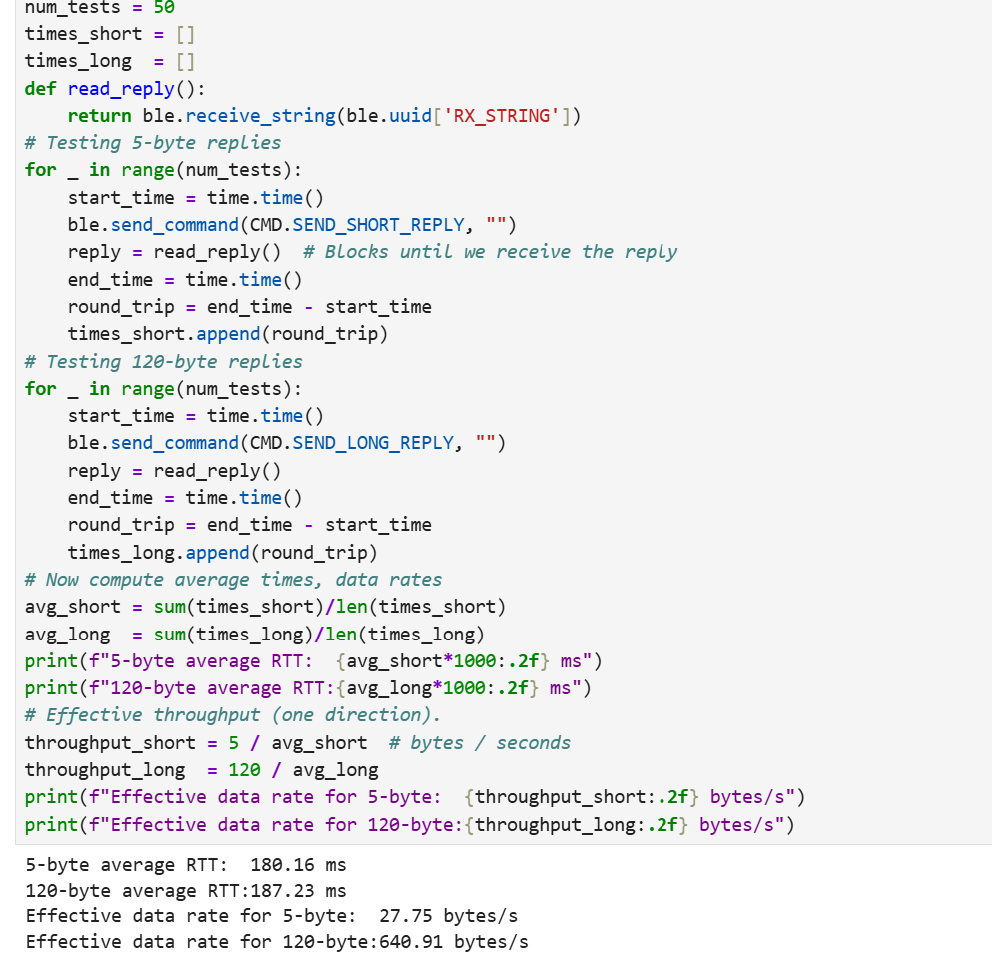
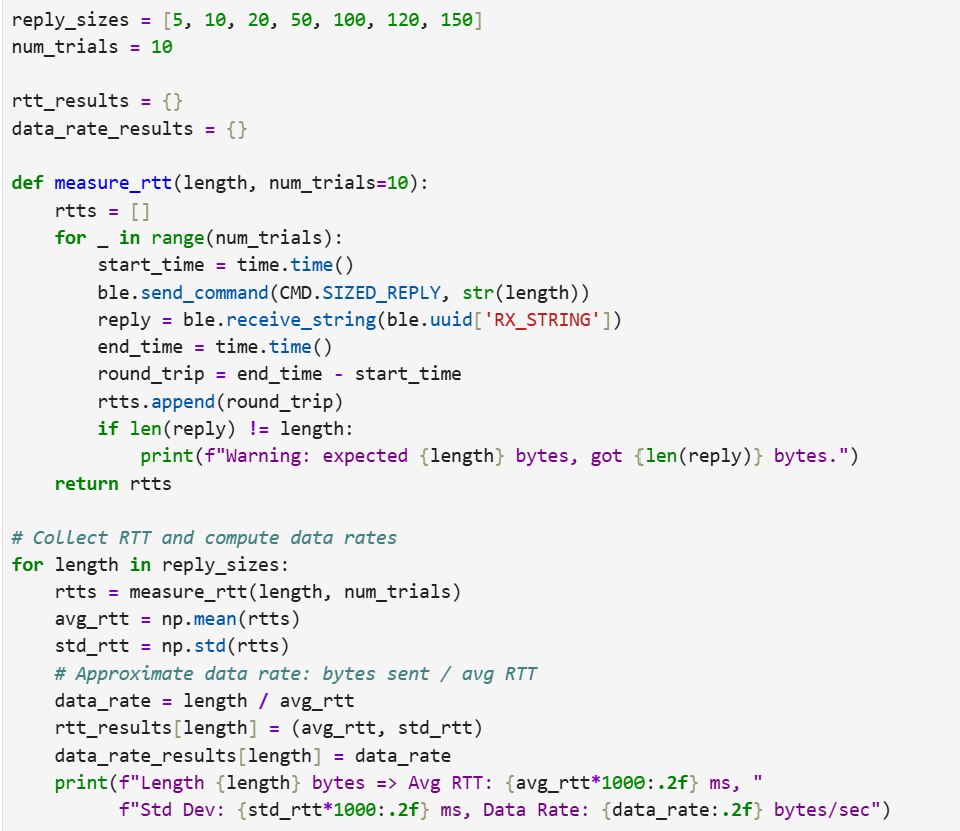
Lab 1 Report updated

diff --git a/index.html b/index.html
@@ -377,9 +377,8 @@
                         <!-- Sub-section 1: ECHO Command -->
                         <h4 class="text-center">1. ECHO Command</h4>
                         <p class="text-justify">
-                        In this code snippet, the Artemis board handles the <code>ECHO</code> command by extracting a string from the incoming BLE message.
+                        The Artemis board handles the <code>ECHO</code> command by extracting a string from the incoming BLE message.
                         It then constructs a new string, adding the prefix <em>"Robot says -> "</em> and the postfix <em>" :)"</em> before transmitting it back.
-                        Sending <em>"HiHello"</em> yields <em>"Robot says -> HiHello :)"</em>, confirming that read and write operations function correctly over BLE.
                         Observing <code>Serial.println(tx_estring_value.c_str())</code> verifies the command’s execution.
                         </p>
                         <img class="img-fluid rounded mb-2"
@@ -398,7 +397,7 @@
                         The <code>SEND_THREE_FLOATS</code> command parses three float values sent from Python in a single message.
                         After successfully extracting the values, it responds with a formatted string <em>"Received: x, y, z"</em>.
                         On the Python side, sending <em>"1|2|3"</em> yields <em>"Received: 1.000, 2.000, 3.000"</em>, demonstrating
-                        multi-field data handling. Debug messages in the serial monitor confirm correct float reception.
+                        multi-field data handling. 
                         </p>
                         <img class="img-fluid rounded mb-2"
                             style="max-width: 600px; height: auto;"
@@ -411,12 +410,10 @@
                         <div class="empty-line"></div>
                         
                         <!-- Sub-section 3: GET_TIME_MILLIS & Notification -->
-                        <h4 class="text-center">3. GET_TIME_MILLIS Notification Handler</h4>
+                        <h4 class="text-center">3. GET_TIME_MILLIS</h4>
                         <p class="text-justify">
                         For <code>GET_TIME_MILLIS</code>, the Arduino code appends <em>"T:"</em> plus <code>millis()</code> to the BLE characteristic.
-                        Python sends an empty command and reads back the timestamp (e.g., <em>"T:123456"</em>). Subscribing to notifications
-                        (<code>ble.start_notify</code>) automatically invokes a handler whenever the characteristic updates. This real-time,
-                        event-based approach is more efficient than polling, enabling continuous monitoring of incoming data.
+                        Python sends an empty command and reads back the timestamp (e.g., <em>"T:123456"</em>). 
                         </p>
                         <img class="img-fluid rounded mb-2"
                             style="max-width: 600px; height: auto;"
@@ -442,7 +439,7 @@
                         <div class="empty-line"></div>
 
                         <!-- Sub-section 5: GET_TIME_STREAM -->
-                        <h4 class="text-center">5. Time Streaming (GET_TIME_STREAM)</h4>
+                        <h4 class="text-center">5. Time Streaming</h4>
                         <p class="text-justify">
                         The <code>GET_TIME_STREAM</code> command continuously sends timestamp data (<em>"T:millis"</em>) from the Artemis over five seconds,
                         pausing briefly to avoid overwhelming BLE. On the Python side, a notification handler records each packet with its arrival time.
@@ -464,7 +461,7 @@
                         <div class="empty-line"></div>
                         
                         <!-- Sub-section 6: STORE_TIME_DATA & SEND_TIME_DATA -->
-                        <h4 class="text-center">6. Storing Timestamps (STORE_TIME_DATA & SEND_TIME_DATA)</h4>
+                        <h4 class="text-center">6. Storing Timestamps</h4>
                         <p class="text-justify">
                         First I predefined a global array with size 100 for time data. Then, similary to <code>5. SEND_TIME_DATA </code>, but instead of immediately sending timestamps, the Artemis uses <code>STORE_TIME_DATA</code> to log data in a global array for five seconds.
                         After the collection period, <code>SEND_TIME_DATA</code> transmits the entire dataset. 
@@ -490,7 +487,7 @@
                         <div class="empty-line"></div>
                         
                         <!-- Sub-section 7: STORE_TEMP_DATA & GET_TEMP_READINGS -->
-                        <h4 class="text-center">7. Storing Temperature and Time (STORE_TEMP_DATA & GET_TEMP_READINGS)</h4>
+                        <h4 class="text-center">7. Storing Temperature and Time</h4>
                         <p class="text-justify">
                         The code adds a second array for temperature readings alongside timestamps, capturing both data types together for five seconds. And similarly, I predefined two global arrays for time and temperature data with both size 100.
                         Then using <code>STORE_TEMP_DATA</code> to log data in both arrays for five seconds. If overfill happens, the code will stop storing data and break the loop.
@@ -518,22 +515,21 @@
                         </p>
 
                         <p class="text-justify">
-                            Thanks to the Artemis board’s 384 kB of RAM, which is 393216 bytes (384*1024), it can store tens of thousands of samples (e.g. 8-bit chars, 16-bit chars, 32 bit floats, 64 bits doubles). Consequently, buffering suits scenarios needing higher sampling rates without real-time requirements, while streaming is better for quick diagnostics and interactive tasks.
+                            Thanks to the Artemis board’s 384 kB of RAM, which is 393216 bytes (384*1024), it can store tens of thousands of messages (e.g. 8-bit chars, 16-bit chars, 32 bit floats, 64 bits doubles). Consequently, buffering suits scenarios needing higher sampling rates without real-time requirements, while streaming is better for quick diagnostics and interactive tasks.
                         </p>
                         <div class="empty-line"></div>
                         
                         <!-- Sub-section 9: Communication Performance -->
-                        <h4 class="text-center">9. Communication Performance (Effective Data Rate & Overhead)</h4>
+                        <h4 class="text-center">9. Communication Performance</h4>
                         <p class="text-justify">
-                        By comparing 5-byte (<em>"Hello"</em>) and 120-byte packets (<em>"XXXXXXXX..."</em>) from the Artemis,
+                        By comparing 5-byte and 120-byte packets (<em>"XXXXXXXX..."</em>) from the Artemis,
                         I measured overhead differences between short and long replies. Short replies have faster round-trip times
                         but yield lower data rates (~28 bytes/s), whereas larger packets slightly increase RTT
-                        but substantially improve throughput (~640 bytes/s). However, sending too many large packets too quickly
-                        can saturate the BLE connection. Balancing packet size, frequency, and reliability is essential to maximize efficiency.
+                        but substantially improve throughput (~667 bytes/s). 
                         </p>
                         <img class="img-fluid rounded mb-2"
                             style="max-width: 600px; height: auto;"
-                            src="assets/img/portfolio/Lab1/9_code.png"
+                            src="assets/img/portfolio/Lab1/9_code_1_new.png"
                             alt="Lab1.B - Sub-section 9 Code"/>
                         <img class="img-fluid rounded mb-2"
                             style="max-width: 600px; height: auto;"
@@ -541,7 +537,20 @@
                             alt="Lab1.B - Sub-section 9 Run1"/>
                         <img class="img-fluid rounded mb-2"
                             style="max-width: 600px; height: auto;"
+                            src="assets/img/portfolio/Lab1/9_run_4.png"
+                            alt="Lab1.B - Sub-section 9 Run1"/>
+                        <p class="text-justify">
+                            I also tested with other packet sizes, and the following two image shows the result of RTT and effective data rate with different packet sizes. The RTT is calculated by the time difference between the sent time and received time. The effective data rate is calculated by the total data size divided by the total time.
+                            From the graphs, the RTT increases gradually with message length, suggesting that BLE handles larger packets efficiently up to a certain limit. And the effective data rate scales nearly linearly with packet size, indicating that larger packets are more efficient for bulk data transfer.
+                            However, excessively large packets sent too frequently may saturate the BLE stack, leading to dropped packets or increased delay.
+
+                        <img class="img-fluid rounded mb-2"
+                            style="max-width: 600px; height: auto;"
                             src="assets/img/portfolio/Lab1/9_run_2.png"
+                            alt="Lab1.B - Sub-section 9 Run2"/>
+                        <img class="img-fluid rounded mb-2"
+                            style="max-width: 600px; height: auto;"
+                            src="assets/img/portfolio/Lab1/9_run_3.png"
                             alt="Lab1.B - Sub-section 9 Run2"/>
                         <div class="empty-line"></div>
                         
@@ -571,7 +580,8 @@
                         <h4 class="text-center">Conclusion</h4>
                         <p class="text-justify">
                         Across Lab 1, I established the foundation of working with the SparkFun RedBoard Artemis Nano, from basic setup and sensor interaction (Lab1.A)
-                        to BLE configuration and data handling (Lab1.B). I explored both real-time streaming and buffered transmission approaches,
+                        to BLE configuration and data handling (Lab1.B). I learned that always match the baud rate of the board and the computer is important for serial communication.
+                        I explored both real-time streaming and buffered transmission approaches,
                         learning how to optimize for throughput and reliability under varying conditions. By examining overhead, packet sizes,
                         and transmission rates, I gained insight into effective wireless communication strategies. These experiences will be invaluable
                         as I progress toward more advanced robot control and sensor fusion in upcoming labs.
